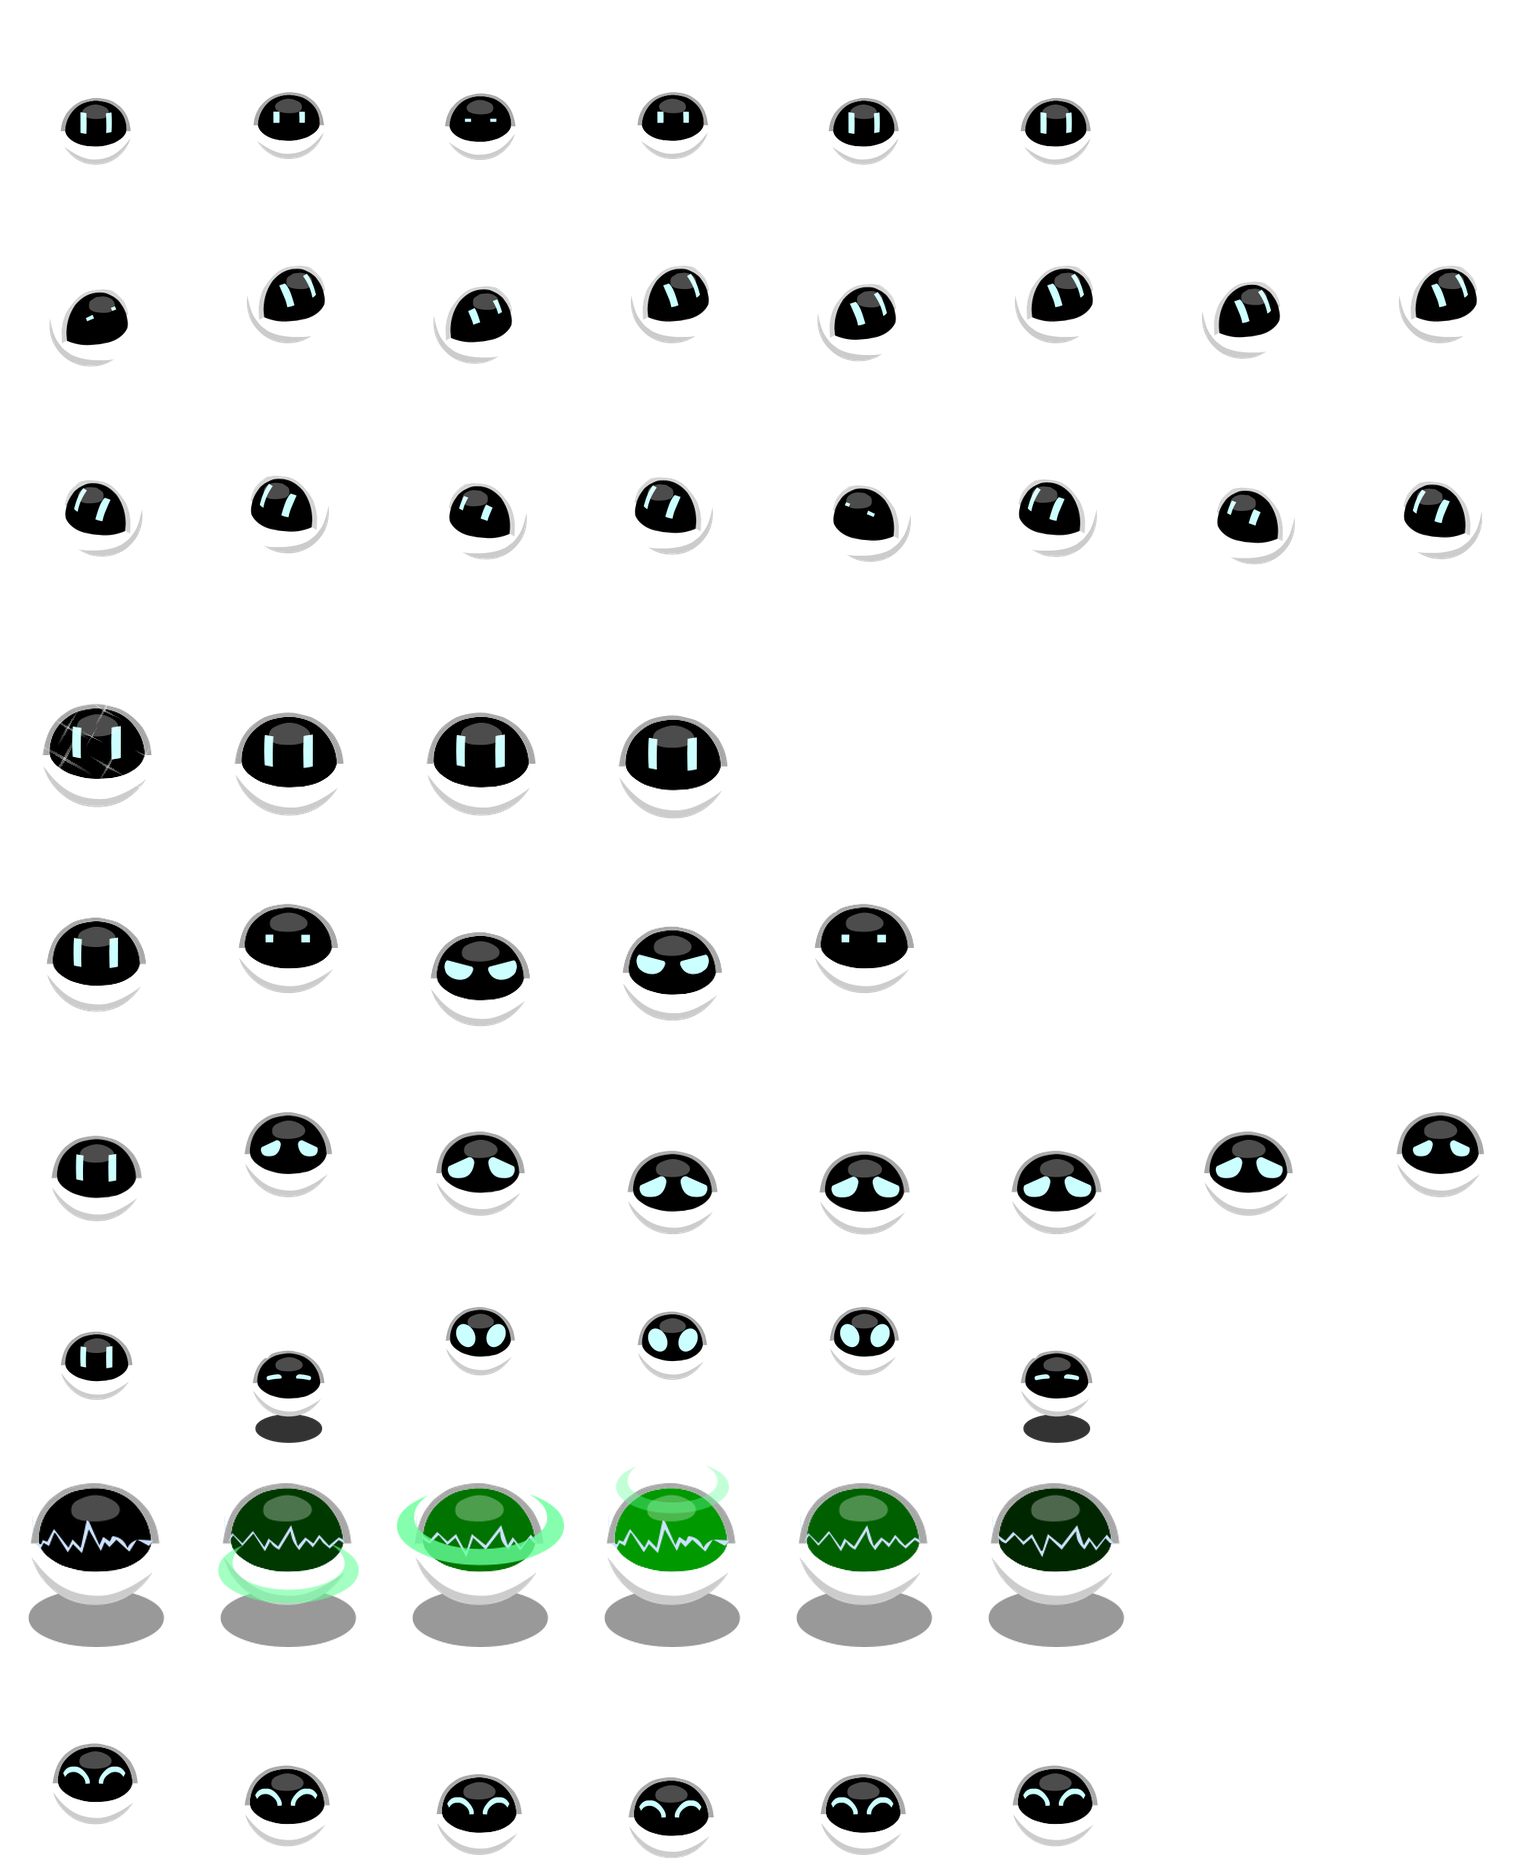
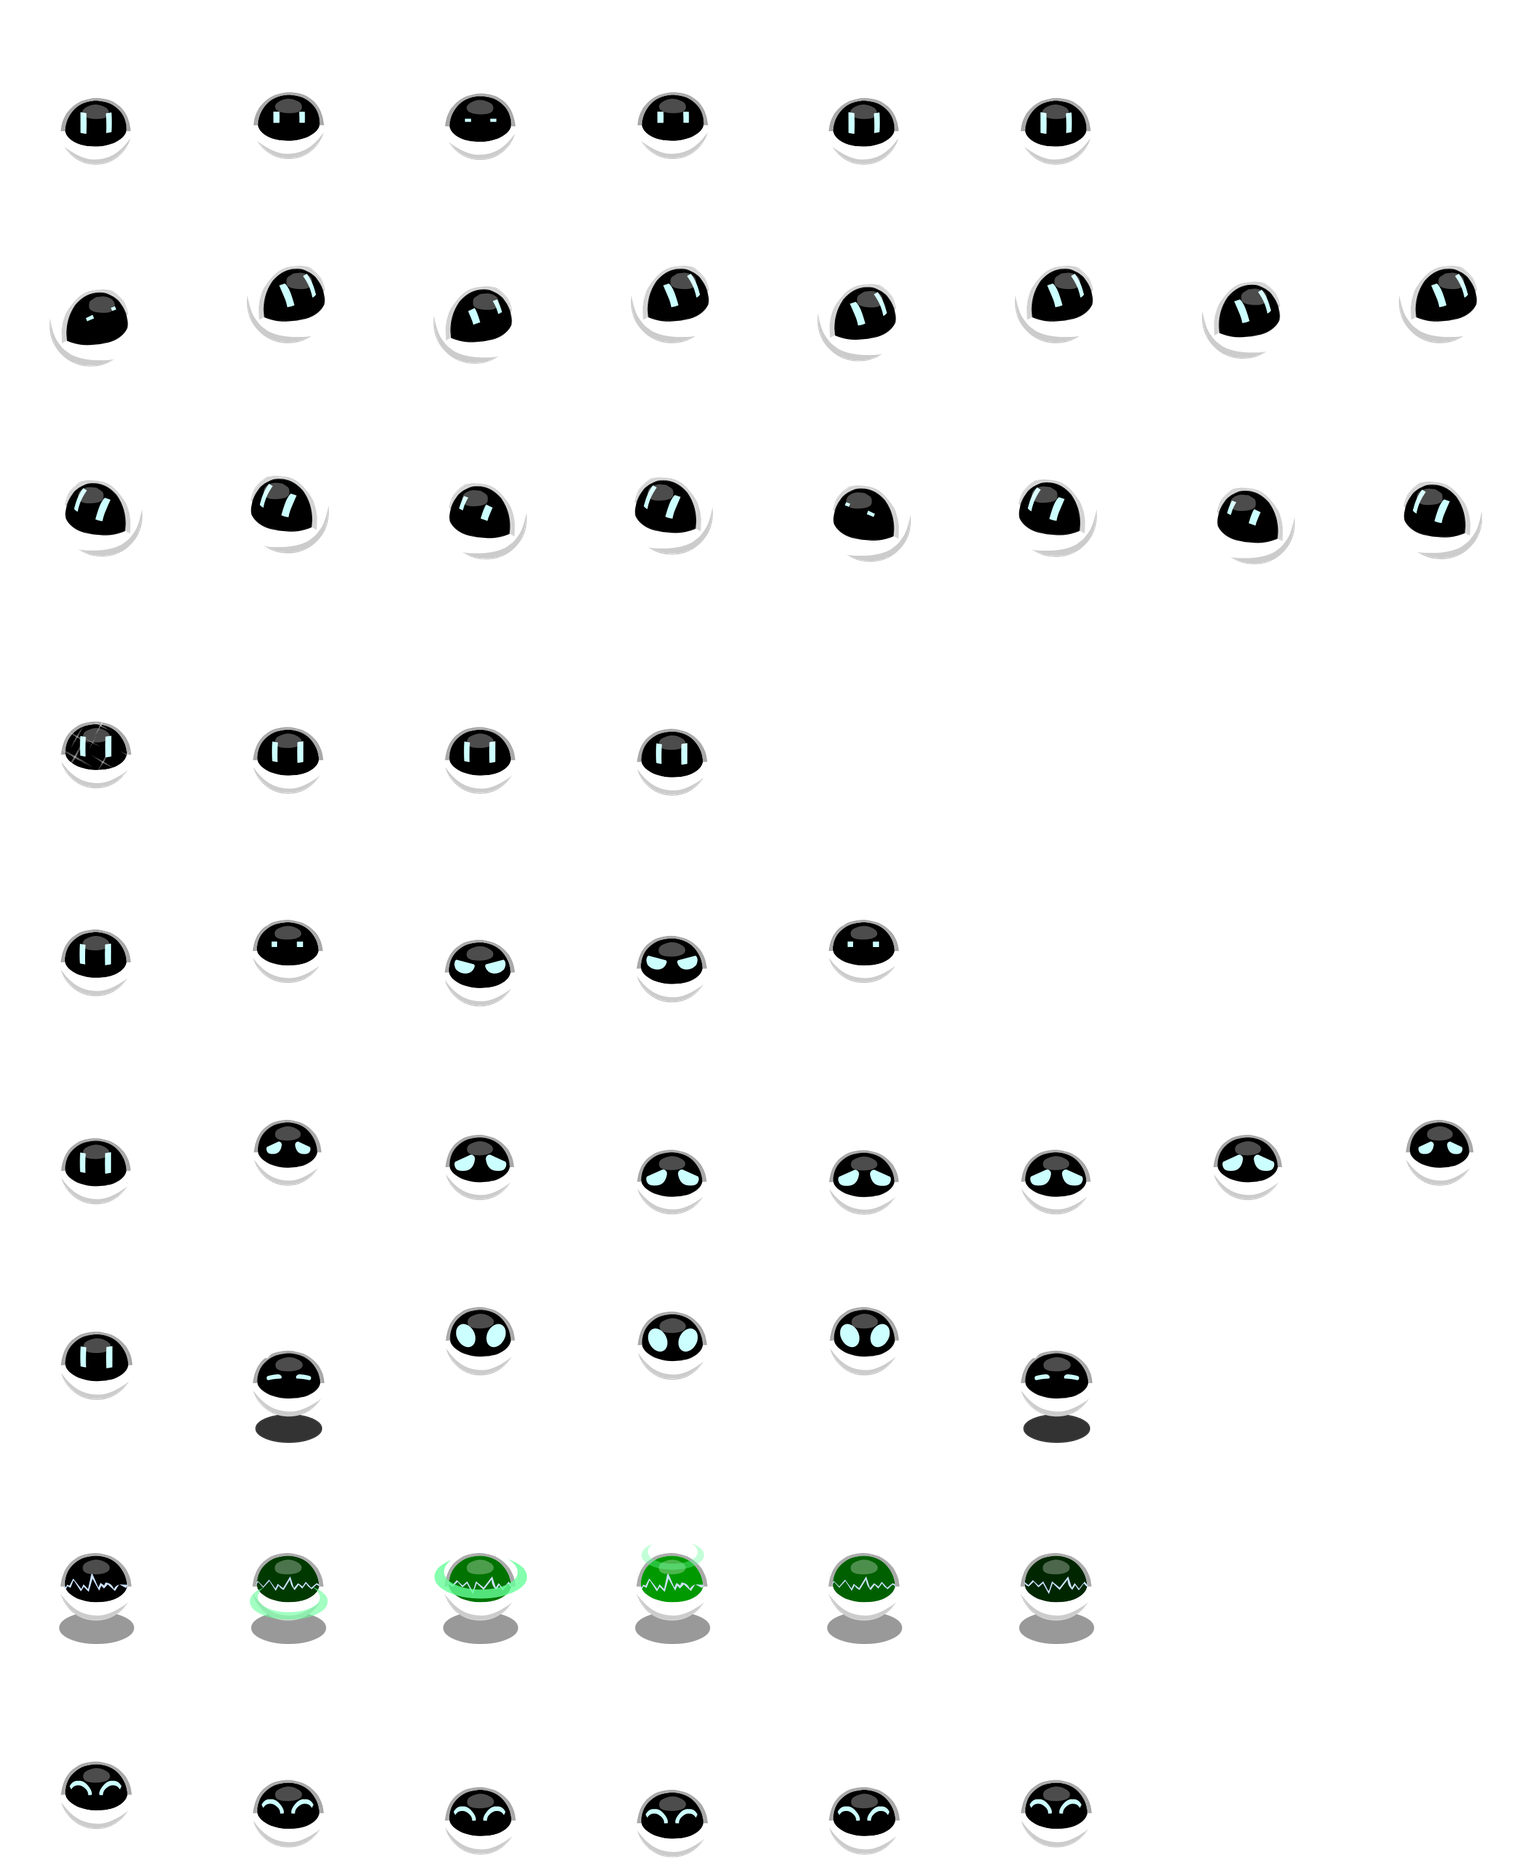
Match oversized NoNo action sprites to idle body scale

diff --git a/index.html b/index.html
@@ -25,4 +25,4 @@
     <section class="install" id="ram-install"><details><summary>安装说明</summary><div class="install-content"><ol><li><span>1</span><div><h3>解压宠物包</h3><p>得到一个含有 <code>pet.json</code> 和 <code>spritesheet.png</code> 的拉姆文件夹。</p></div></li><li><span>2</span><div><h3>放进 Codex 的 pets 文件夹</h3><p>macOS / Linux：<code>~/.codex/pets/</code><br>Windows：<code>%USERPROFILE%\.codex\pets\</code><br>若设置过 <code>CODEX_HOME</code>，请使用它下面的 <code>pets</code> 文件夹。</p></div></li><li><span>3</span><div><h3>在设置里选中它</h3><p>打开 Codex 的「设置 → Pets / 宠物」，刷新列表后选择拉姆。输入 <code>/pet</code> 唤出它。</p></div></li></ol><button class="copy-button" id="ram-copy-prompt">复制安装提示词</button><p class="install-note">也可以将下载的精灵图上传到支持「Upload pet」的宠物界面。<a href="https://learn.chatgpt.com/docs/pets" target="_blank" rel="noreferrer">官方说明 ↗</a></p></div></details></section>
 </div><div id="nono-panel" role="tabpanel" aria-labelledby="tab-nono" hidden><section class="workbench" aria-label="超能NoNo宠物预览"><div class="preview-panel" id="nono-preview-panel"><div class="preview-top"><span class="caps">安装效果预览</span><button id="nono-background" class="small-button" aria-label="切换深浅预览背景">◐ <span>深色背景</span></button></div><div class="pet-stage"><span class="pet-label" id="nono-pet-label">超能 NoNo</span><canvas id="nono-pet" width="576" height="624" role="img" aria-label="超能NoNo动画预览"></canvas></div><div class="preview-bottom"><span><i class="live-dot"></i><span id="nono-state-label">待机中</span></span><button id="nono-pause" class="small-button" aria-pressed="false">Ⅱ 暂停动画</button></div></div>
 <div class="controls nono-controls"><div class="section-heading"><h2>形态</h2></div><div class="forms nono-forms" role="group" aria-label="NoNo版本"><button class="form" data-form="nono-normal" aria-pressed="false"><strong>普通 NoNo</strong></button><button class="form active" data-form="nono" aria-pressed="true"><strong>超能 NoNo</strong></button><button class="form" data-form="nono-annual" aria-pressed="false"><strong>至尊 NoNo</strong></button></div><div class="divider"></div><div id="nono-colors-section"><div class="section-heading"><h2>颜色</h2></div><div class="colors" id="nono-colors" role="group" aria-label="NoNo颜色"></div><div class="divider"></div></div><div class="section-heading"><h2>动作</h2><a class="action-library-link" href="ram-library.html">查看原动作 ↗</a></div><div class="states" role="group" aria-label="预览动作"><button data-state="idle" class="selected" aria-pressed="true">待命</button><button data-state="waving" aria-pressed="false">开机</button><button data-state="jumping" aria-pressed="false">惊讶</button><button data-state="running" aria-pressed="false">玩魔方</button><button data-state="waiting" aria-pressed="false">充电</button><button data-state="review" aria-pressed="false">开心</button><button data-state="running-left" aria-pressed="false">向左</button><button data-state="running-right" aria-pressed="false">向右</button><button data-state="failed" aria-pressed="false">悲哀</button></div><p class="hint" style="margin-top:12px">动作播放三遍后回到待机，点击动作可重播。</p><div class="download-area"><div class="install-actions"><button class="command-action" id="nono-copy-command" aria-label="复制安装命令"><span class="command-header"><span class="terminal-title">命令安装 </span><span class="copy-feedback"><span class="copy-status" role="status" aria-live="polite">复制</span><svg class="copy-icon" viewBox="0 0 20 20" width="16" height="16" fill="none" stroke="currentColor" stroke-width="1.4" aria-hidden="true"><rect x="7" y="7" width="10" height="11" rx="2"/><path d="M12 4V3a1 1 0 0 0-1-1H4a2 2 0 0 0-2 2v8a1 1 0 0 0 1 1h1"/></svg></span></span><span class="command-line"><span class="shell-prompt" aria-hidden="true">$</span><code id="nono-install-command">npx --yes github:mli55/taomi-codex-pets --pet nono</code></span></button><button class="download" id="nono-download" disabled><span>↓</span> <span>下载 ZIP</span> </button></div><div class="download-meta"><span></span><button class="text-button" id="nono-download-png" disabled>下载 PNG</button></div><p id="nono-download-status" class="download-status" role="status"></p></div></div></section>    <section class="install" id="nono-install"><details><summary>安装说明</summary><div class="install-content"><ol><li><span>1</span><div><h3>解压宠物包</h3><p>得到一个含有 <code>pet.json</code> 和 <code>spritesheet.png</code> 的NoNo文件夹。</p></div></li><li><span>2</span><div><h3>放进 Codex 的 pets 文件夹</h3><p>macOS / Linux：<code>~/.codex/pets/</code><br>Windows：<code>%USERPROFILE%\.codex\pets\</code><br>若设置过 <code>CODEX_HOME</code>，请使用它下面的 <code>pets</code> 文件夹。</p></div></li><li><span>3</span><div><h3>在设置里选中它</h3><p>打开 Codex 的「设置 → Pets / 宠物」，刷新列表后选择NoNo。输入 <code>/pet</code> 唤出它。</p></div></li></ol><button class="copy-button" id="nono-copy-prompt">复制安装提示词</button><p class="install-note">也可以将下载的精灵图上传到支持「Upload pet」的宠物界面。<a href="https://learn.chatgpt.com/docs/pets" target="_blank" rel="noreferrer">官方说明 ↗</a></p></div></details></section>
-</div></main><footer><p>非官方项目 · 游戏素材版权归原权利方所有</p></footer><script src="pet-playback.js?v=animation-review2" defer></script><script src="ram.js?v=classic-angry1" defer></script><script src="nono.js?v=loop-continuity1" defer></script><script src="app.js" defer></script></body></html>
+</div></main><footer><p>非官方项目 · 游戏素材版权归原权利方所有</p></footer><script src="pet-playback.js?v=animation-review2" defer></script><script src="ram.js?v=classic-angry1" defer></script><script src="nono.js?v=nono-size1" defer></script><script src="app.js" defer></script></body></html>

diff --git a/nono.js b/nono.js
@@ -60,7 +60,7 @@ async function loadForm(next){
   try{
     let images=imageCache.get(assetKey);
     if(!images){
-      images=await Promise.all([assetKey+'.png'].map(async file=>{const image=new Image();image.src='assets/'+file+'?v=loop-continuity1';await image.decode();if(image.naturalWidth!==1536||image.naturalHeight!==1872)throw Error('宠物图集尺寸不正确');return image;}));
+      images=await Promise.all([assetKey+'.png'].map(async file=>{const image=new Image();image.src='assets/'+file+'?v=nono-size1';await image.decode();if(image.naturalWidth!==1536||image.naturalHeight!==1872)throw Error('宠物图集尺寸不正确');return image;}));
       imageCache.set(assetKey,images);
     }
     if(request!==generation)return;
